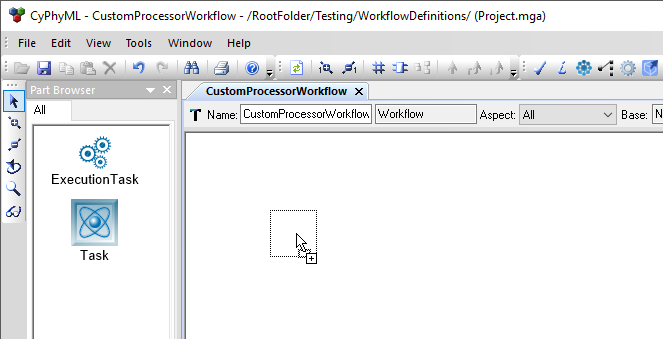
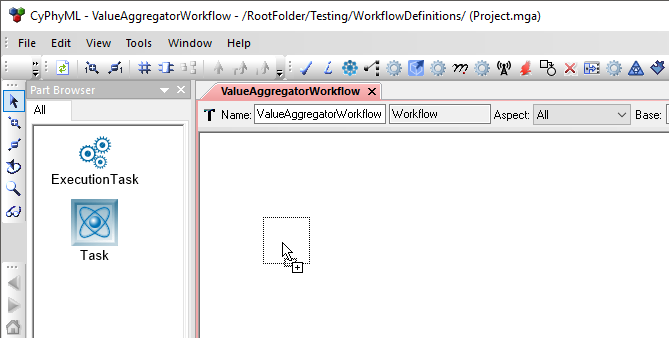
OPENMETA-349 Renamed Custom Processor to Value Aggregator.
- Copied current state of customProcessor.py to ValueAggregator.py
- Reverted customProcessor.py to master version
- Updated the Docs to refer to ValueAggregator.py

diff --git a/bin/ValueAggregator.py b/bin/ValueAggregator.py
@@ -1,6 +1,10 @@
-
+
 import sys
 import os
+import parser
+#sys.path.append(r"C:\Program Files\ISIS\Udm\bin")
+#if os.environ.has_key("UDM_PATH"):
+#    sys.path.append(os.path.join(os.environ["UDM_PATH"], "bin"))
 import _winreg as winreg
 with winreg.OpenKey(winreg.HKEY_LOCAL_MACHINE, r"Software\META") as software_meta:
     meta_path, _ = winreg.QueryValueEx(software_meta, "META_PATH")
@@ -29,15 +33,15 @@ try:
 except ImportError:
     pass
 
-	
+
 def is_number(s):
     try:
         float(s)
         return True
     except ValueError:
-        return False	
-	
-	
+        return False
+
+
 def start_pdb():
     ''' Starts pdb, the Python debugger, in a console window
     '''
@@ -47,6 +51,8 @@ def start_pdb():
     sys.stdout = open('CONOUT$', 'wt')
     sys.stdin = open('CONIN$', 'rt')
     import pdb; pdb.set_trace()
+    
+supportedOperators = ["*", "+", ""]
 
 class ComputeData(object):
     def compute(self, currentobj, output_dir):
@@ -65,28 +71,33 @@ class ComputeData(object):
         import collections
         que = collections.deque()
         que.extend(sut.ref.children())
-        #csv_filename = os.path.join(output_dir, 'parts_cost.csv')
-        #csv_file = open(csv_filename,'w')
-        aggregated_mass = float(0)
-        aggregated_cost = float(0)
-        #log("ComputeData in customProcessor.PY")	
-        #print "this is a print"       
+        
+        
+        ################################################
+        # Gather instructions from TB-level Properties #
+        ################################################
+        
         propDict = {}
-        #log("ComputeData: Initialized dict  yyyyy")
-        #log("objects m,prop,para,sut="+str(len(tb_props)))
-        #log("objects m,prop,para,sut="+str(len(tb_metrics))+" "+str(len(tb_props))+" "+str(len(tb_params))+" "+str(len(sut)))
-        #log("scanning props")
-        for pp in tb_props :
-            instr = pp.Description
-            #log(instr)            
-            propname = pp.name
-            #log("ComputeData: prop:"+instr)
-            pname,classname,op = instr.split(',')
-            #log("param "+pname+ " in "+ classname + " Op " + op)
-            val = "0.0"
-            propDict[propname] = (pname,classname,op,val)
-            
-        #############################################################
+        log("Test Bench Properties:")
+        for tb_prop in tb_props :
+            name = tb_prop.name
+            instruction = tb_prop.Description
+            log("Name: "+name+", Instruction: "+instruction)
+            if instruction.count(',') != 2:
+                raise ValueError('Property {} has invalid description format. It should contain 3 values, comma-separated'.format(name))
+            pname,classname,op = instruction.split(',')
+            if op not in ('*', '+', ''):
+                raise ValueError('Property {} has invalid operator \'{}\'. If should be * or +'.format(name, op))
+            propDict[name] = {}
+            propDict[name]["pname"] = pname
+            propDict[name]["classname"] = classname
+            propDict[name]["op"] = op
+            propDict[name]["val"] = "0.0"
+
+        ###############################################
+        # Perform the desired operations on the model #
+        ###############################################
+        
         while que:
             obj = que.pop()
             if obj.type.name == "ComponentRef":
@@ -97,59 +108,61 @@ class ComputeData(object):
                     classifications.setdefault(class_, [])
                     classifications[class_].append(component)
             if obj.type.name == "Component":
-                #log("Visit:"+obj.name)						
+                #log("Visit:"+obj.name)
                 add_classification(obj)
-                for xx in propDict :
-                    #log(xx)
-                    #log("Look for:"+propDict[xx][1])
+                for tb_prop in propDict :
+                    #log(tb_prop)
+                    #log("Look for:"+propDict[tb_prop]["classname"])
                     #log("Class is:"+obj.Classifications)
-                    if propDict[xx][1] == "*" or propDict[xx][1] == "" or obj.Classifications == propDict[xx][1] :
-                        #log("WOW")
+                    if propDict[tb_prop]["classname"] == "*" or propDict[tb_prop]["classname"] == "" or obj.Classifications == propDict[tb_prop]["classname"] :
                         #log("Found Class:"+obj.Classifications)
                         for child in obj.children():
-                            #log(child.name+" "+child.type.name+" equal to "+propDict[xx][0])
-                            if (child.type.name=="Property" or child.type.name=="Parameter") and child.name == propDict[xx][0] :
-                                if propDict[xx][2] == "*" or propDict[xx][2] == "" :
-                                    #log("val is: "+child.Value + " set to "+xx)
-                                    propDict[xx] = (propDict[xx][0],propDict[xx][1],propDict[xx][2],child.Value)
-                                    #log("add to "+xx+" child.Value")
-                                if propDict[xx][2] == "+"  :
-                                    #log("val is: "+child.Value + " added to "+xx)
+                            #log(child.name+" "+child.type.name+" equal to "+propDict[tb_prop]["pname"])
+                            if (child.type.name=="Property" or child.type.name=="Parameter") and child.name == propDict[tb_prop]["pname"] :
+                                if propDict[tb_prop]["op"] == "*" or propDict[tb_prop]["op"] == "" :
+                                    #log("val is: "+tb_prop+ " set to "+child.Value)
+                                    propDict[tb_prop]["val"] = child.Value
+                                    #log("add to "+tb_prop+" child.Value")
+                                if propDict[tb_prop]["op"] == "+"  :
+                                    #log("val is: "+child.Value + " added to "+tb_prop)
                                     try:
-                                        #log("propdict ["+propDict[xx][3]+"] and "+child.Value)
-                                        newval = str(float(propDict[xx][3]) + float(child.Value))
-                                        #log("Sum is "+newval)
-                                        propDict[xx] = (propDict[xx][0],propDict[xx][1],propDict[xx][2],newval)
-                                        #log("add to "+xx+" child.Value")
+                                        #log("Adding "+child.Value+" to running sum of "+propDict[tb_prop]["val"]+".")
+                                        propDict[tb_prop]["val"] = str(float(propDict[tb_prop]["val"]) + float(child.Value))
                                     except:
-                                        #log("error with value/string")
-                                        propDict[xx] = (propDict[xx][0],propDict[xx][1],propDict[xx][2],child.Value)
-                                    
+                                        #log("Error with value/string")
+                                        propDict[tb_prop]["val"] = child.Value
         #log("Done with parsing")
-        ###############################################################################################	
+        
+        #####################################
+        # Generate contents of 'compute.py' #
+        #####################################
+        
         fcomp.write("import json\n")
-        fcomp.write("import os\n")        
+        fcomp.write("import os\n")
+        fcomp.write("import math\n")
         fcomp.write("json_filename = os.path.join(\"\", 'testbench_manifest.json')\n")
         fcomp.write("json_data = {}\n")
         fcomp.write("if os.path.isfile(json_filename):\n")
         fcomp.write("    with open(json_filename, \"r\") as json_file:\n")
-        fcomp.write("        json_data = json.load(json_file) \n") 
-        fcomp.write("    for item in json_data['Parameters']:\n") 
-        for ppp in tb_params:
-            fcomp.write("        if \""+ppp.name+ "\"== item[\"Name\"]:\n")
+        fcomp.write("        json_data = json.load(json_file) \n")
+        fcomp.write("    for item in json_data['Parameters']:\n")
+        if len(tb_params) == 0:
+            fcomp.write("        pass\n")
+        for tb_param in tb_params:
+            fcomp.write("        if \""+tb_param.name+ "\"== item[\"Name\"]:\n")
             fcomp.write("            try:\n")
-            fcomp.write("                "+ppp.name+"=float(item[\"Value\"])\n")
+            fcomp.write("                "+tb_param.name+"=float(item[\"Value\"])\n")
             fcomp.write("            except:\n")
-            fcomp.write("                "+ppp.name+"=item[\"Value\"]\n")
+            fcomp.write("                "+tb_param.name+"=item[\"Value\"]\n")
 
-        for xx in propDict :
-            #log("Write out:"+xx)
-            #log("isnum "+propDict[xx][3])
+        for tb_prop in propDict :
+            #log("Write out:"+tb_prop)
+            #log("isnum "+propDict[tb_prop]["val"])
             try:
-                vval = float(propDict[xx][3])
-                fcomp.write(xx+"="+propDict[xx][3]+"\n")
+                vval = float(propDict[tb_prop]["val"])
+                fcomp.write(tb_prop+"="+propDict[tb_prop]["val"]+"\n")
             except:
-                fcomp.write(xx+"=\""+propDict[xx][3]+"\"\n")
+                fcomp.write(tb_prop+"=\""+propDict[tb_prop]["val"]+"\"\n")
         import json
         json_data = {}
         #log('json filename %s:' % json_filename)
@@ -157,73 +170,86 @@ class ComputeData(object):
             with open(json_filename, "r") as json_file:
                 json_data = json.load(json_file)
         json_data.setdefault('Metrics', [])
-        #log("metrics code gen")              
-        for item in json_data['Metrics']:    
+        #log("metrics code gen")
+        for item in json_data['Metrics']:
             if len(item["Description"]) > 0 :
                 #log(item["Description"])
+                parser.suite(item["Description"])  # fail fast if it doesn't parse
                 fcomp.write(item["Description"]+"\n")
         #log("done metrics code gen")
         fcomp.write("\n##############################\n")
         #log("creating json handling code")
         fcomp.write("for metric in json_data['Metrics']: \n")
-        for item in json_data['Metrics']: 
+        for item in json_data['Metrics']:
             #log(item["Name"])
             fcomp.write("    if metric[\"Name\"] == \""+item["Name"]+"\":\n")
             fcomp.write("        metric[\"Value\"] = "+item["Name"]+"\n")
         fcomp.write("with open(json_filename, \"w\") as json_file:\n")
         fcomp.write("    json.dump(json_data, json_file, indent=4)\n")
-        
-        fcomp.write("# json handler done\n")
-        fcomp.close()       
 
-# This is the entry point    
+        fcomp.write("# json handler done\n")
+        fcomp.close()
+
+        #log(str(json_data))
+        #log('- Saving to: %s' % json_filename)
+
+
+# This is the entry point
 def invoke(focusObject, rootObject, componentParameters, **kwargs):
+    #log(rootObject.name)
+    #print repr(rootObject.name)
     output_dir = componentParameters['output_dir']
     if output_dir == '':
         output_dir = os.getcwd()
-        
+
     ComputeData().compute(focusObject, output_dir)
+    #log_formatted("Output files are <a href=\"file:///{0}\" target=\"_blank\">{0}</a>.".format(output_dir))
+    #log("Output files are <a href=\"file:///{0}\" target=\"_blank\">{0}</a>.".format(output_dir))
+    #log('done')
 
-    ###############################################################################################				
-    ##  create run_classifications.cmd
-    ###############################################################################################				
+    ##################################
+    # Create run_classifications.cmd #
+    ##################################
 
+    #with open(os.path.join(output_dir, 'run_classifications.cmd'), 'w'): pass
     componentParameters['runCommand'] = 'run_classifications.cmd'
+    ##componentParameters['labels'] = 'Windows'
+
     outputfilename_bat_path = os.path.join(output_dir, 'run_classifications.cmd')
-    
+
+    #start_pdb()
+    #print "outputfilename_bat_path: " + outputfilename_bat_path
+
     try:
         fbat = open(outputfilename_bat_path, 'w')
     except Exception, e:
         log("Could not open  {0}: {1}".format(outputfilename_bat_path, str(e)))
     foundCommands = False
+    fbat.write('Setlocal EnableDelayedExpansion\n')
     for child in focusObject.children():
-         if child.type.name=="Property" and child.name =="preExec": 
+         if child.type.name=="Property" and child.name =="preExec":
             fbat.write(child.Description+'\n\n')
             foundCommands=True
     for child in focusObject.children():
          if child.type.name=="Property" and child.name =="Exec":
             fbat.write(child.Description+'\n\n')
-            foundCommands=True 
+            foundCommands=True
     for child in focusObject.children():
          if child.type.name=="Property" and child.name =="postExec":
-            fbat.write(child.Description+'\n\n')  
-            foundCommands=True            
-        
+            fbat.write(child.Description+'\n\n')
+            foundCommands=True
+
     if foundCommands == False:
-        fbat_contents = '''
-set ERROR_CODE=0
-
-FOR /F "skip=2 tokens=2,*" %%A IN ('C:\Windows\SysWoW64\REG.exe query "HKLM\software\META" /v "META_PATH"') DO set META_PATH=%%B
-"%META_PATH%\\bin\\Python27\\Scripts\\python.exe" compute.py
-
-echo "DONE"
-exit /b
-        '''
-        fbat.write(fbat_contents)
+        fbat.write('set ERROR_CODE=0\n')
+        fbat.write('''FOR /F "skip=2 tokens=2,*" %%A IN ('C:\Windows\SysWoW64\REG.exe query "HKLM\software\META" /v "META_PATH"') DO set META_PATH=%%B\n''')
+        fbat.write('"%META_PATH%\\bin\\Python27\\Scripts\\python.exe" compute.py || exit /b !ERRORLEVEL!\n')
+        fbat.write('echo "DONE"	\n')
+        fbat.write('\n')
+        fbat.write('''pause  2 exit 0\n''')
 
     fbat.close()
 
-# Allow calling this script with a .mga file as an argument    
+# Allow calling this script with a .mga file as an argument
 if __name__=='__main__':
     import _winreg as winreg
     with winreg.OpenKey(winreg.HKEY_LOCAL_MACHINE, r"Software\META") as software_meta:

diff --git a/docs/testbenches/testbench_utilities.rst b/docs/testbenches/testbench_utilities.rst
@@ -3,7 +3,7 @@
 Common Utilities
 ================
 
-Custom Processor
+Value Aggregator
 ----------------
 
 Introduction
@@ -30,7 +30,7 @@ Depending how few different components and properties you have in your
 OpenMETA model, it may be possible to use Value Flow to wire all the needed
 values out of your model, but as the complexity of the model increases, it
 quickly becomes infeasible to wire out every property you want to extract
-from a system model. The **customProcessor.py** script was designed to make
+from a system model. The **ValueAggregator.py** script was designed to make
 the task of gathering values easier.
 
 Configuring the Test Bench
@@ -45,7 +45,7 @@ If a Workflow Definitions folder doesn't exist in your Testing Folder, you
 can add one by Right-clicking the Testing Folder and selecting:
 :menuselection:`Insert Folder --> Workflow Definitions`.
 
-To configure a Workflow to execute the **customProcessor.py** script, follow
+To configure a Workflow to execute the **ValueAggregator.py** script, follow
 the steps below:
 
 #. Add a Task to the *Workflow* by left-click-dragging a **Task** from the 
@@ -62,7 +62,7 @@ the steps below:
    .. image:: images/workflow_cyphypython.png
       :alt: Selecting the CyPhyPython Interpreter
       
-#.  Double-click the resulting Task object and enter "customProcessor.py"
+#.  Double-click the resulting Task object and enter "ValueAggregator.py"
     into the **script** field, then close the window.
     
     .. image:: images/workflow_script_parameter.png
@@ -77,10 +77,10 @@ different queries that you want to perform on the model. An OpenMETA
 to perform. The *Description* attribute of the Property is where you will
 place the definition of the query.
 
-.. figure:: images/customprocessor_tb_property.png
-   :alt: A Test Bench Property with a Custom Processor Query in the Description
+.. figure:: images/value_aggregator_tb_property.png
+   :alt: A Test Bench Property with a Value Aggregator Query in the Description
    
-   A Test Bench Property with a Custom Processor Query in the
+   A Test Bench Property with a Value Aggregator Query in the
    Description
 
 The query takes the form of a comma-separated triplet where the each field
@@ -130,10 +130,10 @@ Similar to the queries themselves, an assignment is accomplished by adding
 an assignment statement to the *Description* attribute of a Test Bench
 *Metric*.
 
-.. figure:: images/customprocessor_tb_metric.png
-   :alt: A Test Bench Metric with a Custom Processor Assignment in the Description
+.. figure:: images/value_aggregator_tb_metric.png
+   :alt: A Test Bench Metric with a Value Aggregator Assignment in the Description
    
-   A Test Bench Metric with a Custom Processor Assignment in the Description
+   A Test Bench Metric with a Value Aggregator Assignment in the Description
 
 In the image above, you can see that the **Total Mass** that was calculated
 with a query is being assigned to the **VehicleMass** metric.
